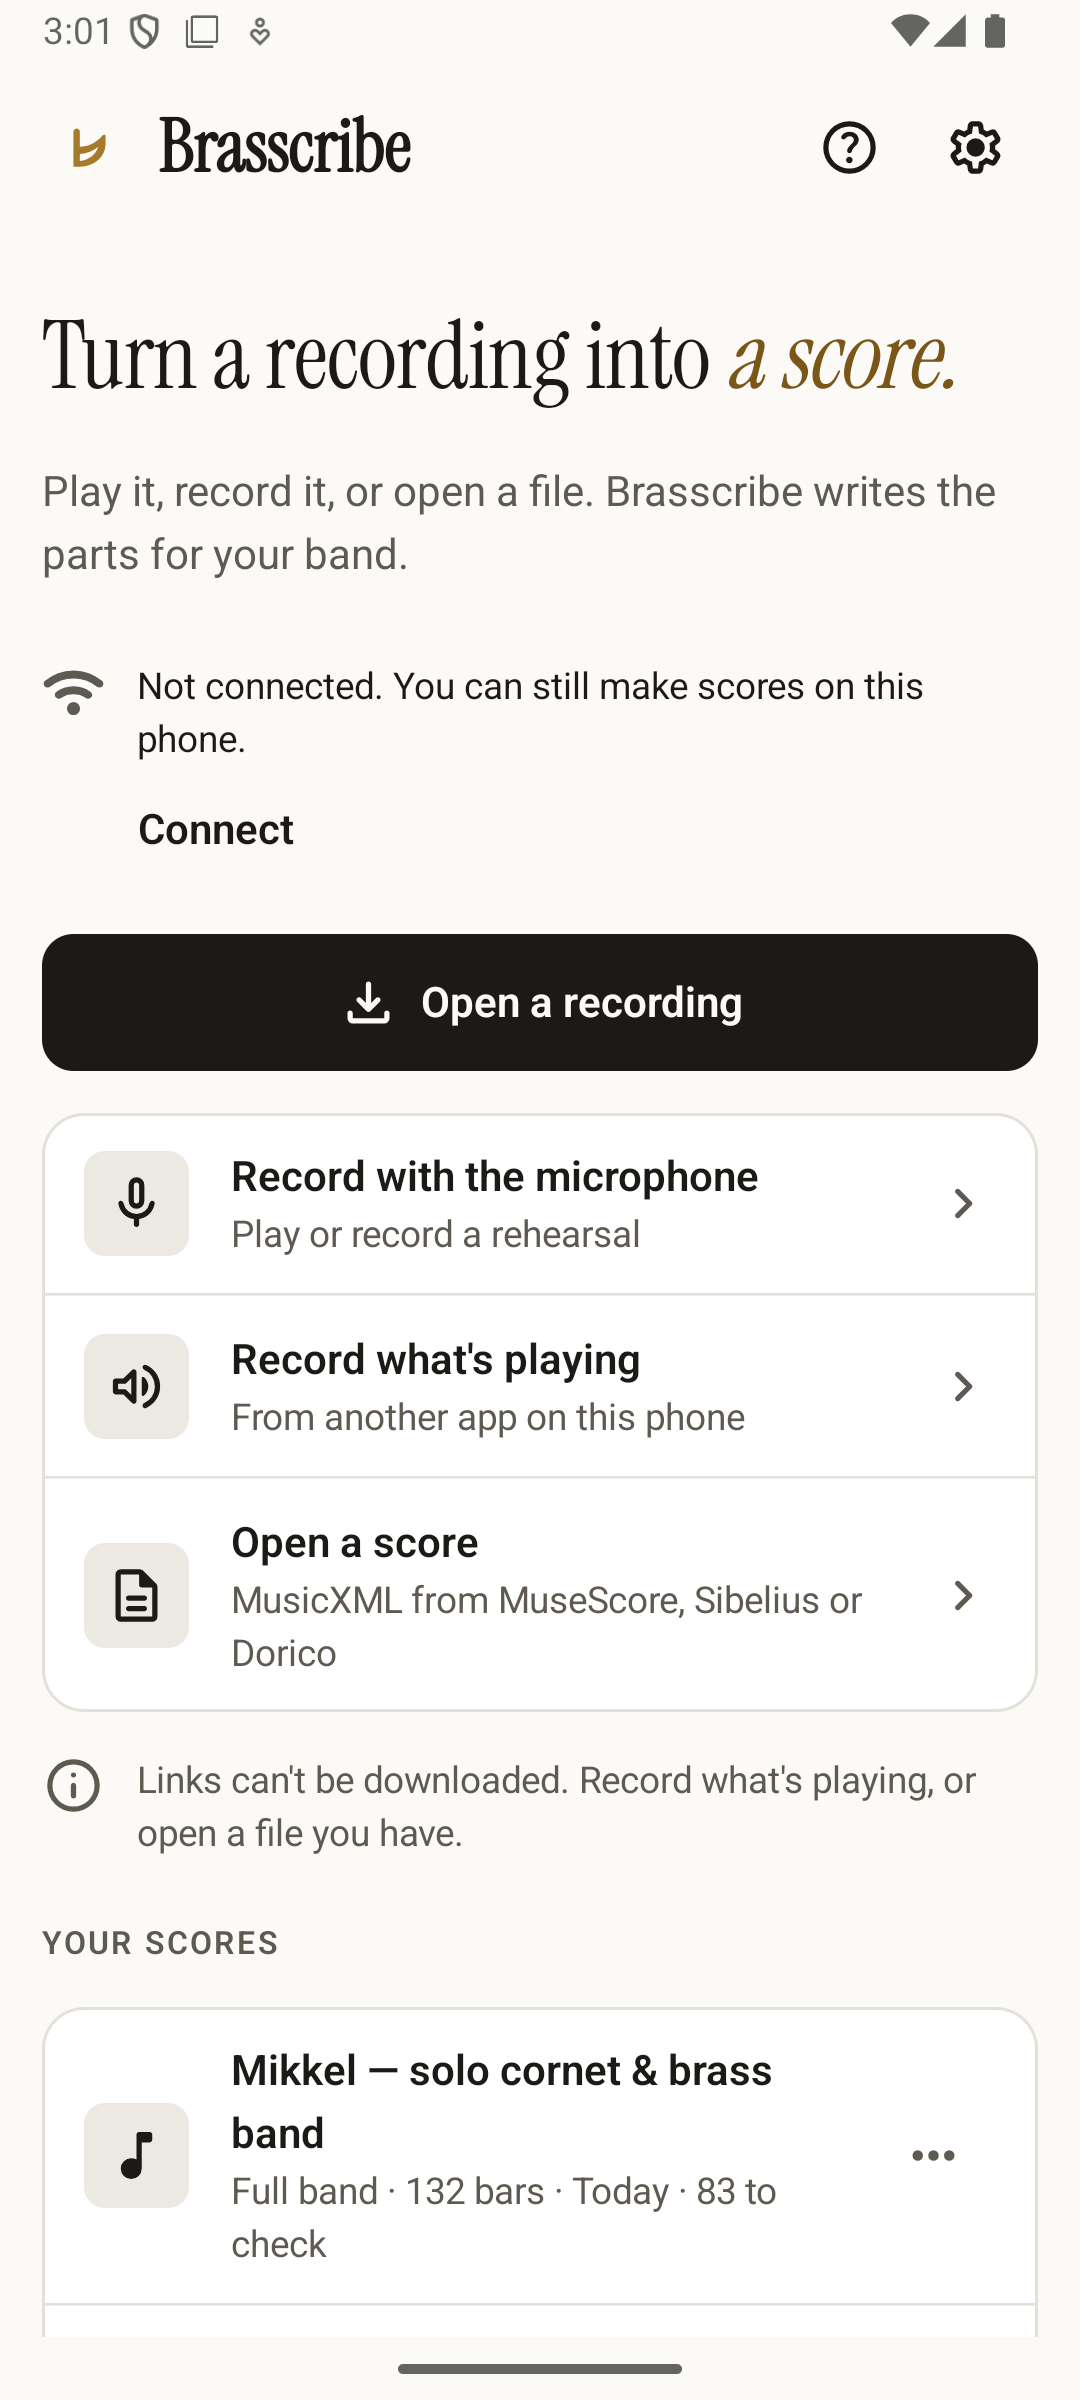
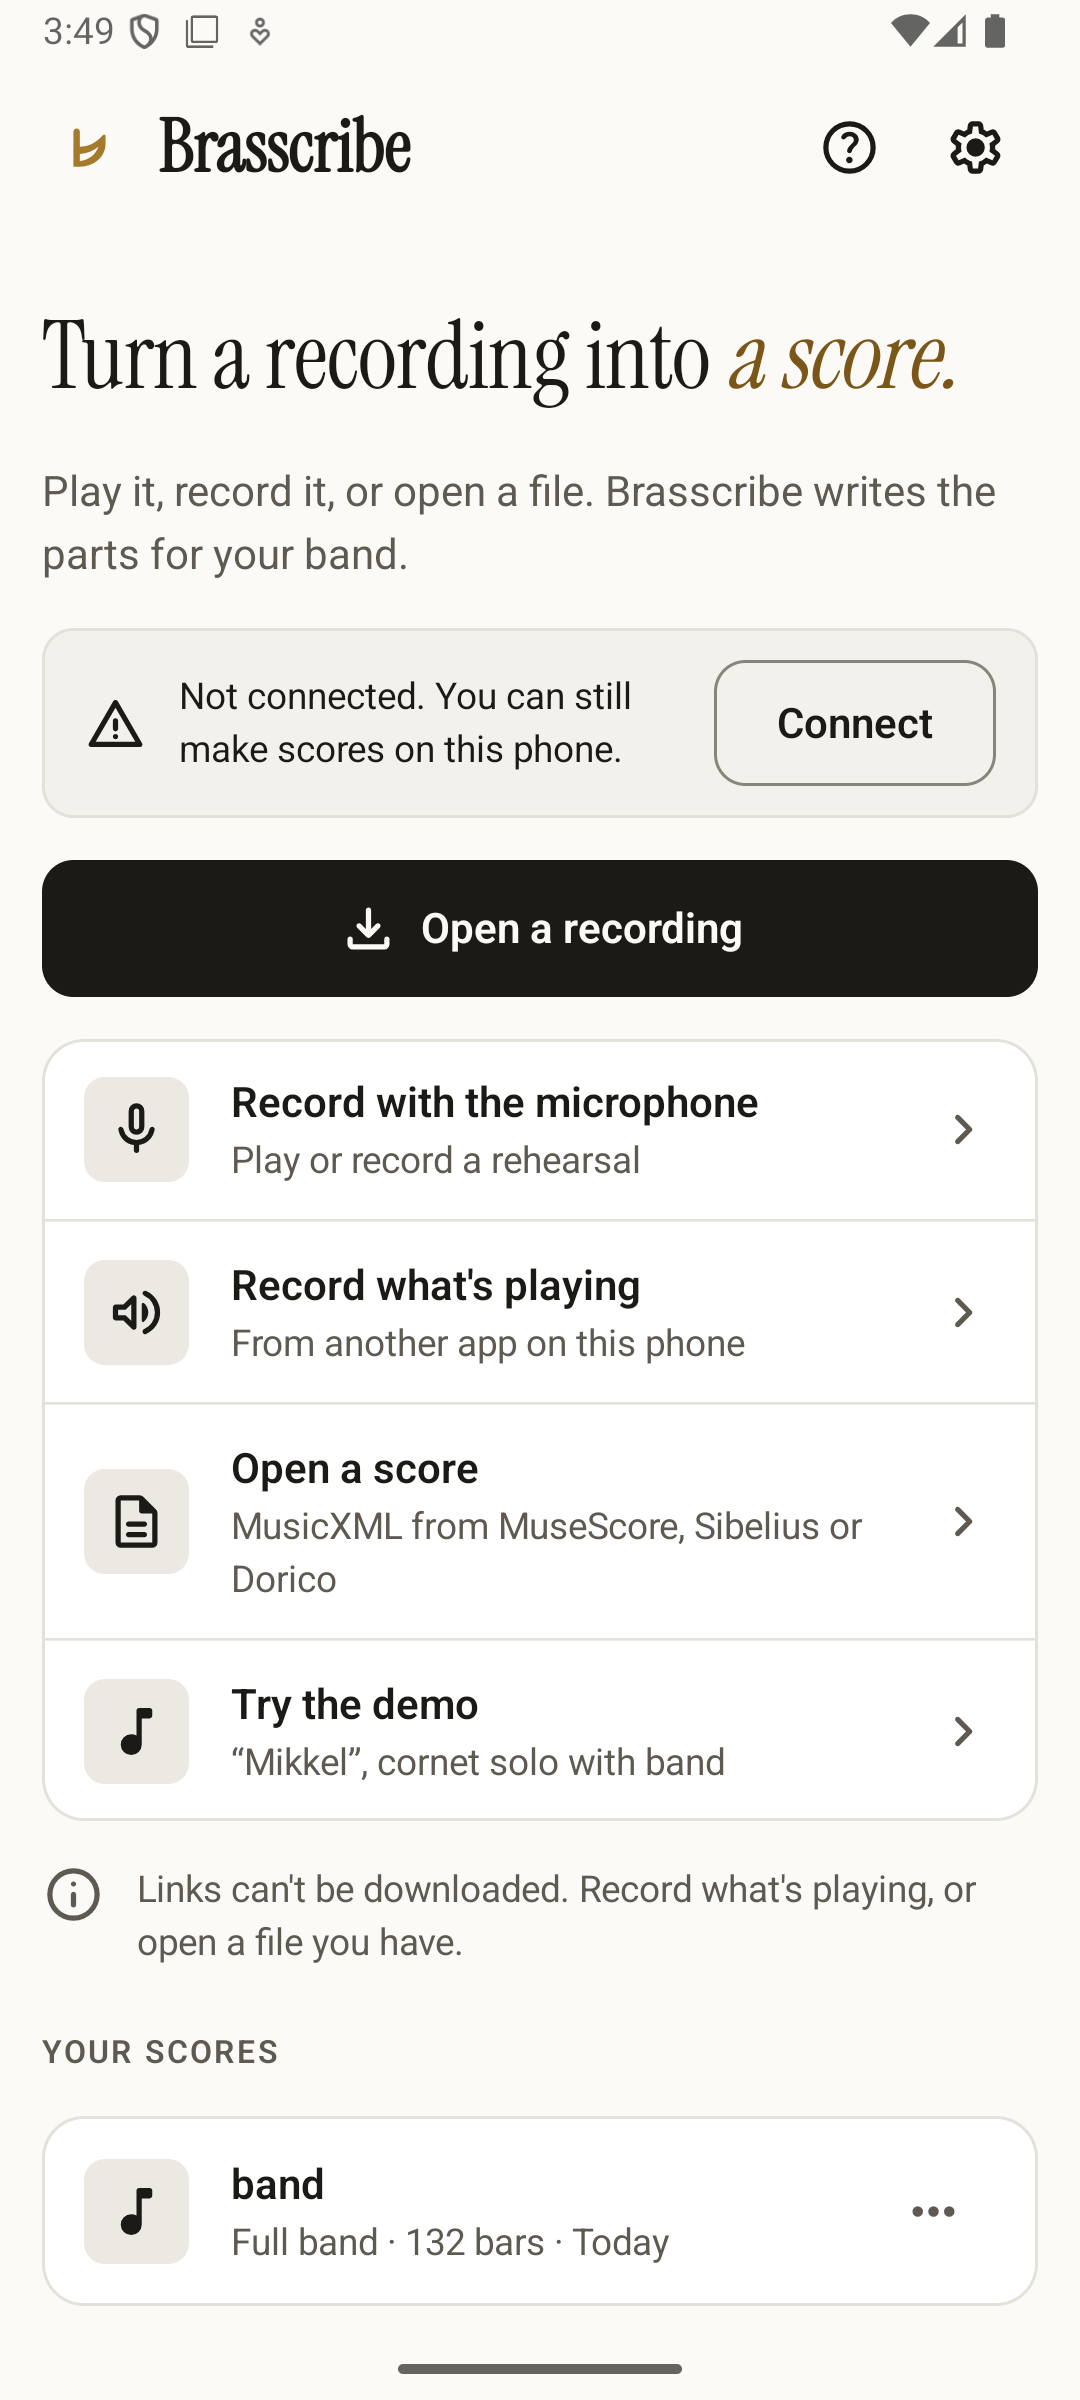
fix(android): status row in Apple's form, nb tech-details label
- The connection status row is a bordered surface row (1 dp border, 12 dp
  corners): the state's icon and words on the left, Connect or Pair this phone
  again as a 44 dp outline button on the right. The button moves under the words
  at large text, or when it would leave the words less than 60 % of the row.
- nb: «Detaljer for den tekniske i bandet».
- The network callback's first report on registering is not a network change, so
  coming back to the app after giving up no longer flips the row to looking for.
- Home screenshots retaken for all four states, en and nb.

diff --git a/apps/android/app/src/main/kotlin/no/brasscribe/play/ui/ConnectionStatus.kt b/apps/android/app/src/main/kotlin/no/brasscribe/play/ui/ConnectionStatus.kt
@@ -2,12 +2,12 @@ package no.brasscribe.play.ui
 
 import androidx.compose.foundation.layout.Arrangement
 import androidx.compose.foundation.layout.Column
-import androidx.compose.foundation.layout.offset
 import androidx.compose.foundation.layout.padding
 import androidx.compose.foundation.layout.Row
 import androidx.compose.foundation.layout.fillMaxWidth
 import androidx.compose.foundation.layout.heightIn
 import androidx.compose.material3.MaterialTheme
+import androidx.compose.material3.Surface
 import androidx.compose.material3.Text
 import androidx.compose.runtime.Composable
 import androidx.compose.runtime.collectAsState
@@ -44,35 +44,73 @@ fun connectionIcon(state: ConnectionState): Int = when (state) {
 }
 
 /**
- * The connection status row (Home, and Brasscribe on your computer): an icon and words, never colour
- * alone. Only the words are a polite live region, and they change only when the state does, so a
- * heartbeat that finds nothing new says nothing. The action is plain: the screen's primary stays its own.
+ * The connection status row (Home, and Brasscribe on your computer), in the same form as Apple's: a
+ * bordered surface row with the state's icon and words on the left and, when there is something to do,
+ * an outline button on the right (below the words at large text). Never colour alone. Only the words are
+ * a polite live region, and they change only when the state does, so a heartbeat that finds nothing new
+ * says nothing. The button is outline: the screen's primary stays its own.
  */
 @Composable
 fun ConnectionStatusRow(vm: PlayViewModel, modifier: Modifier = Modifier, onConnectionScreen: Boolean = false) {
     val state by vm.connection.state.collectAsState()
     val c = BrasscribeTheme.colors
-    Row(
-        modifier.fillMaxWidth().heightIn(min = 48.dp),
-        verticalAlignment = Alignment.Top,
-        horizontalArrangement = Arrangement.spacedBy(BrasscribeSpace.s3),
-    ) {
-        BcIcon(connectionIcon(state), null, Modifier.padding(top = BrasscribeSpace.s3), tint = c.textMuted)
-        // The action goes under the words, so neither is squeezed at large text or in Norwegian.
-        Column(Modifier.weight(1f)) {
+    val s = state
+    val action: Pair<String, () -> Unit>? = when {
+        s is ConnectionState.Offline && s.paired -> stringResource(R.string.companion_connect) to { vm.connection.retry() }
+        s is ConnectionState.Offline && !onConnectionScreen -> stringResource(R.string.companion_connect) to { vm.navigate(Screen.COMPANION) }
+        s is ConnectionState.NeedsPairing && !onConnectionScreen -> stringResource(R.string.conn_pair_again) to { vm.navigate(Screen.COMPANION) }
+        else -> null
+    }
+    val words = @Composable { m: Modifier ->
+        Row(m, verticalAlignment = Alignment.CenterVertically, horizontalArrangement = Arrangement.spacedBy(BrasscribeSpace.s3)) {
+            BcIcon(connectionIcon(state), null, tint = c.text)
             Text(
                 connectionText(vm, state), style = MaterialTheme.typography.bodyMedium, color = c.text,
-                modifier = Modifier.padding(top = BrasscribeSpace.s3).semantics { liveRegion = LiveRegionMode.Polite },
+                modifier = Modifier.weight(1f).semantics { liveRegion = LiveRegionMode.Polite },
             )
-            val s = state
-            val action: Pair<String, () -> Unit>? = when {
-                s is ConnectionState.Offline && s.paired -> stringResource(R.string.companion_connect) to { vm.connection.retry() }
-                s is ConnectionState.Offline && !onConnectionScreen -> stringResource(R.string.companion_connect) to { vm.navigate(Screen.COMPANION) }
-                s is ConnectionState.NeedsPairing && !onConnectionScreen -> stringResource(R.string.conn_pair_again) to { vm.navigate(Screen.COMPANION) }
-                else -> null
+        }
+    }
+    val button = @Composable {
+        if (action != null) OutlineButton(action.first, action.second, Modifier.heightIn(min = 44.dp), fill = false)
+    }
+    Surface(
+        modifier.fillMaxWidth(), shape = MaterialTheme.shapes.medium, color = c.surface,
+        border = androidx.compose.foundation.BorderStroke(1.dp, c.border),
+    ) {
+        val inner = Modifier.padding(horizontal = BrasscribeSpace.s4, vertical = BrasscribeSpace.s3).heightIn(min = 44.dp)
+        if (action == null) words(inner.fillMaxWidth())
+        else ActionBeside(inner.fillMaxWidth(), stack = largeText(), gap = BrasscribeSpace.s3, words = { words(Modifier) }, action = button)
+    }
+}
+
+/**
+ * The words with the button on the right, or the button under the words when it would leave the words
+ * less than 60 % of the row (a long Norwegian label) or at large text.
+ */
+@Composable
+private fun ActionBeside(
+    modifier: Modifier, stack: Boolean, gap: androidx.compose.ui.unit.Dp,
+    words: @Composable () -> Unit, action: @Composable () -> Unit,
+) {
+    androidx.compose.ui.layout.Layout(contents = listOf(words, action), modifier = modifier) { (w, b), constraints ->
+        val gapPx = gap.roundToPx()
+        val max = constraints.maxWidth
+        val button = b.first().measure(constraints.copy(minWidth = 0, minHeight = 0))
+        val side = !stack && button.width + gapPx <= max * 0.4f
+        if (side) {
+            val text = w.first().measure(constraints.copy(minWidth = 0, maxWidth = max - button.width - gapPx, minHeight = 0))
+            val h = maxOf(text.height, button.height, constraints.minHeight)
+            layout(max, h) {
+                text.place(0, (h - text.height) / 2)
+                button.place(max - button.width, (h - button.height) / 2)
             }
-            // A plain button whose words line up with the sentence above.
-            if (action != null) PlainButton(action.first, action.second, Modifier.offset(x = -BrasscribeSpace.s3))
+        } else {
+            val text = w.first().measure(constraints.copy(minWidth = 0, minHeight = 0))
+            val h = maxOf(text.height + gapPx + button.height, constraints.minHeight)
+            layout(max, h) {
+                text.place(0, 0)
+                button.place(0, text.height + gapPx)
+            }
         }
     }
 }

diff --git a/apps/android/app/src/main/kotlin/no/brasscribe/play/MainActivity.kt b/apps/android/app/src/main/kotlin/no/brasscribe/play/MainActivity.kt
@@ -47,7 +47,12 @@ class MainActivity : ComponentActivity() {
         vm.connection.start()
         val cm = getSystemService(ConnectivityManager::class.java) ?: return
         val cb = object : ConnectivityManager.NetworkCallback() {
-            override fun onAvailable(network: Network) = runOnUiThread { vm.connection.networkChanged() }
+            // Registering reports the current network at once: that is not a change, so it is skipped.
+            private var first = true
+            override fun onAvailable(network: Network) {
+                if (first) { first = false; return }
+                runOnUiThread { vm.connection.networkChanged() }
+            }
         }
         runCatching { cm.registerDefaultNetworkCallback(cb) }.onSuccess { networkCallback = cb }
     }
